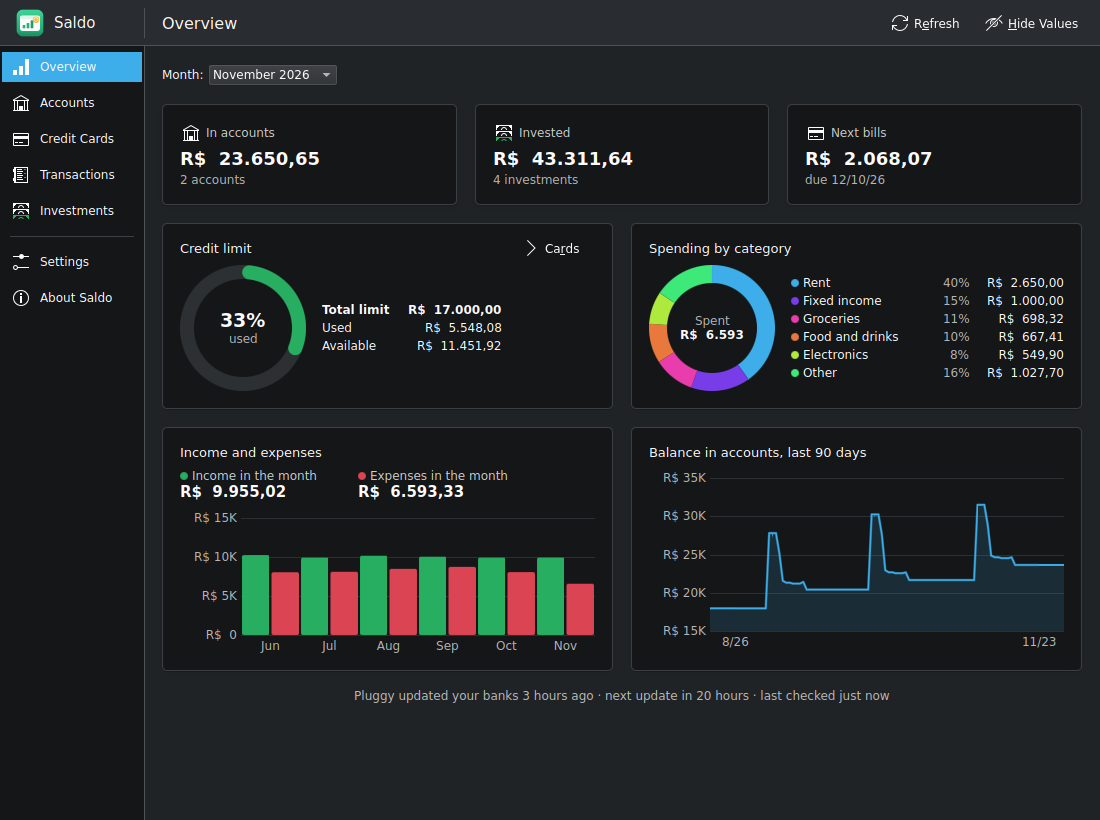
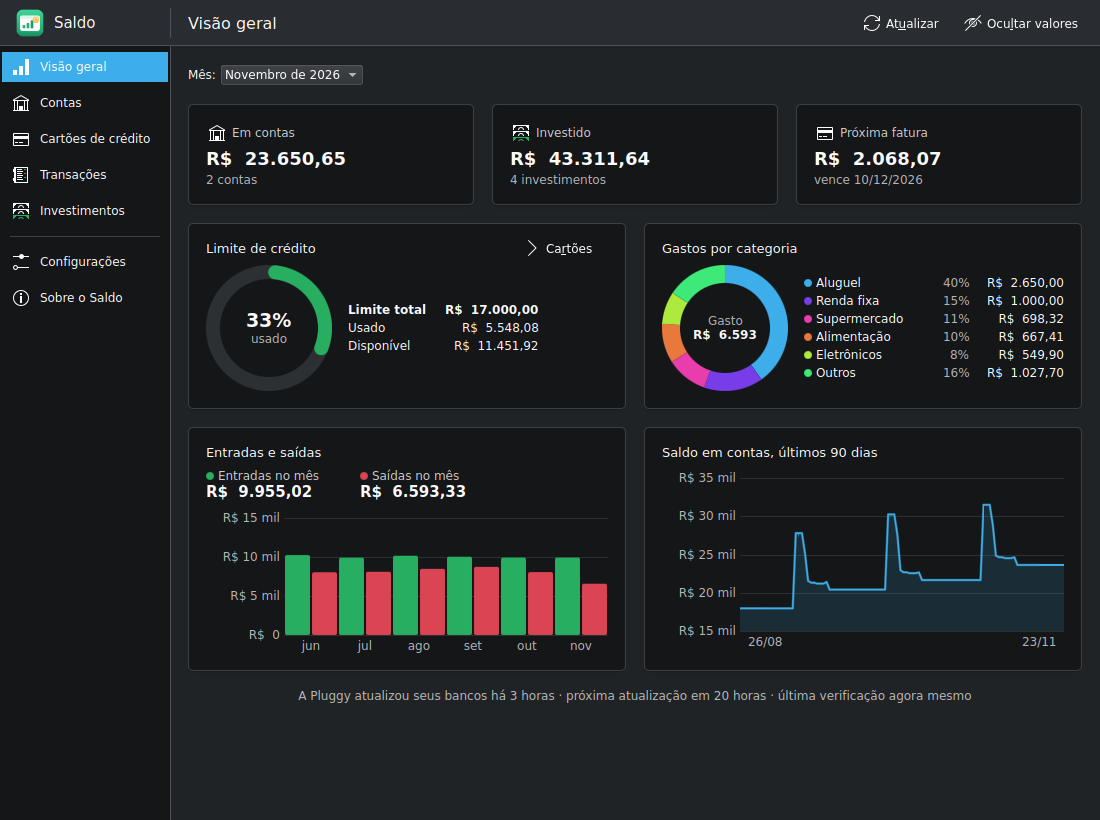
docs: write the README in Brazilian Portuguese
Saldo only works with Brazilian banks (Open Finance Brasil through Meu
Pluggy), so its users read Portuguese: the README and its screenshots are now
in pt-BR. Code, comments and CLAUDE.md stay English.

diff --git a/src/core/pluggyclient.h b/src/core/pluggyclient.h
@@ -14,7 +14,8 @@
 #include <functional>
 
 // Asynchronous client for the Pluggy API (https://api.pluggy.ai), limited to
-// what the Meu Pluggy personal-use flow allows.
+// what the Meu Pluggy personal-use flow allows. Pluggy aggregates Brazilian
+// banks through Open Finance Brasil; Meu Pluggy is its free personal-use tier.
 //
 // - POST /auth exchanges Client ID + Secret for an API key valid for 2 hours;
 //   the key is kept in memory and renewed transparently (also on HTTP 401).

diff --git a/README.md b/README.md
@@ -1,25 +1,27 @@
 # Saldo
 
-A Kirigami app and Plasma 6 widget for your personal finances. Saldo reads your banks
-through the free **Meu Pluggy** personal-use API and shows bank balances, credit card
-limits (overall and per card), bills, investments and transactions, with charts.
+App KDE (Kirigami) e widget do Plasma 6 para as suas finanças pessoais. O Saldo lê os seus bancos
+pelo **Open Finance** do Brasil, através da API gratuita de uso pessoal do **Meu Pluggy**, e mostra
+saldos, limites de cartão (geral e por cartão), faturas, investimentos e transações, com gráficos.
 
-Built with Qt6 + QML + Kirigami (KDE Frameworks 6). No accounts, no servers: the app
-talks to Pluggy directly, keeps your credentials in the system keyring and caches the
-data locally.
+Feito com Qt6 + QML + Kirigami (KDE Frameworks 6). Sem contas nem servidores: o app conversa direto
+com a Pluggy, guarda as credenciais no chaveiro do sistema e mantém um cache local dos dados.
 
-![Overview](data/screenshots/overview.png)
+> Funciona só com bancos brasileiros: os dados vêm do Open Finance Brasil, com o Meu Pluggy como
+> intermediário.
+
+![Visão geral](data/screenshots/overview.png)
 
 |  |  |  |
 | --- | --- | --- |
-| ![Credit cards](data/screenshots/cards.png) | ![Transactions](data/screenshots/transactions.png) | ![Plasma widget](data/screenshots/widget.png) |
+| ![Cartões de crédito](data/screenshots/cards.png) | ![Transações](data/screenshots/transactions.png) | ![Widget do Plasma](data/screenshots/widget.png) |
 
-## Install
+## Instalação
 
 ### Fedora (RPM)
 
-Built on Fedora 44. Download the latest `.rpm` from the
-[Releases page](https://github.com/hernique33comiitei/saldo/releases/latest) and install it:
+Compilado no Fedora 44. Baixe o `.rpm` mais recente na
+[página de releases](https://github.com/hernique33comiitei/saldo/releases/latest) e instale:
 
 ```sh
 sudo dnf install ./saldo-*.x86_64.rpm
@@ -27,9 +29,9 @@ sudo dnf install ./saldo-*.x86_64.rpm
 
 ### Ubuntu / Debian (DEB)
 
-Built on Ubuntu 26.04 LTS (needs Qt 6.8 and KDE Frameworks 6). Download the latest `.deb` from
-the [Releases page](https://github.com/hernique33comiitei/saldo/releases/latest) and install it
-(apt pulls in the dependencies):
+Compilado no Ubuntu 26.04 LTS (precisa de Qt 6.8 e KDE Frameworks 6). Baixe o `.deb` mais recente
+na [página de releases](https://github.com/hernique33comiitei/saldo/releases/latest) e instale (o
+apt baixa as dependências):
 
 ```sh
 sudo apt install ./saldo_*_amd64.deb
@@ -37,32 +39,33 @@ sudo apt install ./saldo_*_amd64.deb
 
 ### Android (APK)
 
-Download `saldo-<version>-arm64-v8a.apk` from the [Releases page](https://github.com/hernique33comiitei/saldo/releases/latest)
-on your phone and open it (Android asks to allow installing apps from your browser once).
+Baixe `saldo-<versão>-arm64-v8a.apk` na
+[página de releases](https://github.com/hernique33comiitei/saldo/releases/latest) pelo celular e
+abra o arquivo (o Android pede, uma vez, para permitir instalar apps pelo navegador).
 
-### From source (Fedora)
+### A partir do código (Fedora)
 
-For development, or to build the current `main`:
+Para desenvolver, ou para usar o `main` atual:
 
 ```sh
-./install.sh                    # installs missing deps, builds, installs to ~/.local
-./install.sh --restart-plasma   # same, then reloads plasmashell so the widget appears
+./install.sh                    # instala o que faltar, compila e instala em ~/.local
+./install.sh --restart-plasma   # o mesmo e reinicia o plasmashell para o widget aparecer
 ```
 
-`install.sh` only asks for `sudo` the first time, to install missing packages. It also
-writes `~/.config/plasma-workspace/env/saldo.sh` so plasmashell finds the widget's QML
-plugin under `~/.local`. `./uninstall.sh` reverts it (`--purge` also deletes the cache,
-preferences and keyring entry).
+O `install.sh` só pede `sudo` na primeira vez, para instalar pacotes que faltam. Ele também cria
+`~/.config/plasma-workspace/env/saldo.sh`, para o plasmashell achar o plugin QML do widget em
+`~/.local`. O `./uninstall.sh` desfaz tudo (`--purge` também apaga o cache, as preferências e a
+entrada no chaveiro).
 
-Try it without an account: `saldo --demo`.
+Para testar sem conta: `saldo --demo`.
 
-### From source (other distributions)
+### A partir do código (outras distribuições)
 
-Install the build dependencies, then build and install with CMake:
+Instale as dependências de compilação e compile com o CMake:
 
 - Debian/Ubuntu: `cmake ninja-build extra-cmake-modules gettext qt6-base-dev qt6-declarative-dev
   libqt6sql6-sqlite libkirigami-dev libkf6i18n-dev libkf6coreaddons-dev`
-- Fedora (what `install.sh` installs): `cmake ninja-build gcc-c++ extra-cmake-modules gettext
+- Fedora (o que o `install.sh` instala): `cmake ninja-build gcc-c++ extra-cmake-modules gettext
   qt6-qtbase-devel qt6-qtdeclarative-devel kf6-kirigami-devel kf6-ki18n-devel kf6-kcoreaddons-devel`
 
 ```sh
@@ -70,75 +73,76 @@ cmake -B build -G Ninja -DCMAKE_INSTALL_PREFIX=/usr && cmake --build build
 sudo cmake --install build
 ```
 
-At runtime it also needs the Kirigami and KQuickCharts QML modules, Qt SVG and the Qt SQLite
-driver (the packages above pull most of them in) and `secret-tool`.
+Para rodar, também são necessários os módulos QML do Kirigami e do KQuickCharts, o Qt SVG, o driver
+SQLite do Qt (os pacotes acima já trazem a maioria) e o `secret-tool`.
 
-## Connect Meu Pluggy
+## Conectar o Meu Pluggy
 
-Saldo opens a step-by-step guide on first run (*Connect Meu Pluggy* in the sidebar) that
-walks through the steps below with the exact button names of Pluggy's dashboard.
+Na primeira vez, o Saldo abre um guia passo a passo (*Conectar o Meu Pluggy*, no menu lateral) com
+os nomes exatos dos botões do painel da Pluggy.
 
-Personal use gives you a **Client ID**, a **Client Secret** and one **item ID** per
-connected bank (there is no single token):
+O uso pessoal dá um **Client ID**, um **Client Secret** e um **ID de item** por banco conectado (não
+existe um token único):
 
-1. Create an account at [meu.pluggy.ai](https://meu.pluggy.ai) and connect your banks.
-2. At [dashboard.pluggy.ai](https://dashboard.pluggy.ai) (in Portuguese), open
-   “Aplicações”: copy your application's **Client ID**, and its **Client Secret** (shown only
-   once; otherwise “Credenciais” → “Gerar novo secret”).
-3. Press ▶ “Iniciar Demo”, click “Conectar Conta”, pick **MeuPluggy** (not your bank), sign in
-   and pick **one** bank under “Selecione a conta”. Each authorization shares a single bank:
-   repeat for every bank you want (up to 5).
-4. Copy the **id** of each item under “Itens Conectados” and paste it in Saldo, together with
-   the Client ID and Secret (the guide, or *Settings*).
+1. Crie uma conta em [meu.pluggy.ai](https://meu.pluggy.ai) e conecte os seus bancos.
+2. Em [dashboard.pluggy.ai](https://dashboard.pluggy.ai), abra “Aplicações” e copie o **Client ID**
+   da sua aplicação e o **Client Secret** (aparece só uma vez; se não tiver, “Credenciais” →
+   “Gerar novo secret”).
+3. Clique em ▶ “Iniciar Demo”, depois em “Conectar Conta”, escolha **MeuPluggy** (não o seu banco),
+   entre e marque **um** banco em “Selecione a conta”. Cada autorização compartilha um único banco:
+   repita para cada banco que quiser (até 5).
+4. Copie o **id** de cada item em “Itens Conectados” e cole no Saldo, junto com o Client ID e o
+   Secret (pelo guia ou em *Configurações*).
 
-Guide: <https://docs.pluggy.ai/pt/docs/guides/meu-pluggy-personal-use>
+Guia oficial: <https://docs.pluggy.ai/pt/docs/guides/meu-pluggy-personal-use>
 
-- Meu Pluggy refreshes your banks **once a day** on its own and can't be forced; *Refresh*
-  re-reads what Pluggy already has.
-- Authorizations last one year (Saldo warns 30 days before). Renewing may change the item ID.
+- O Meu Pluggy atualiza os seus bancos **uma vez por dia** sozinho, e isso não pode ser forçado: o
+  *Atualizar* relê o que a Pluggy já tem.
+- As autorizações duram um ano (o Saldo avisa 30 dias antes). Renovar pode mudar o ID do item.
 
-## Plasma widget
+## Widget do Plasma
 
-Right-click the panel → *Add or Manage Widgets* → **Saldo**, or *Configure System Tray →
-Entries → Saldo*. The panel shows the Saldo icon or, optionally, the money in your accounts
-(not in the system tray); the popup has Summary, Cards and Transactions tabs; middle-click
-hides the values.
-Credentials and connections are set in the app.
+Clique com o botão direito no painel → *Adicionar ou gerenciar widgets* → **Saldo**, ou *Configurar
+bandeja do sistema → Entradas → Saldo*. O painel mostra o ícone do Saldo ou, se você preferir, o
+dinheiro nas contas (fora da bandeja do sistema). O popup tem as abas Resumo, Cartões e Transações;
+o clique do meio esconde os valores. Credenciais e conexões ficam no app.
 
-## Requirements
+## Requisitos
 
-The app **never installs** anything. It needs `secret-tool` (libsecret) for the keyring and
-shows a warning when it is missing. The packages pull in everything else (Kirigami,
-KQuickCharts, Qt SVG/SQLite, libsecret).
+O app **nunca instala** nada. Ele precisa do `secret-tool` (libsecret) para o chaveiro e mostra um
+aviso quando ele falta. Os pacotes trazem todo o resto (Kirigami, KQuickCharts, Qt SVG/SQLite,
+libsecret).
 
-## How it works
+## Como funciona
 
-- **One core, two front-ends.** A C++ library (`saldocore`, QML module `org.saldo.core`)
-  holds the Pluggy client, the sync logic and an SQLite cache. The app and the widget both
-  load it in-process — there is no daemon. A lock file keeps one sync at a time and the
-  other process reloads when the cache changes.
-- **Pluggy API.** `POST /auth` turns the Client ID + Secret into an API key kept 2 hours in
-  memory. Accounts, bills, investments and categories are paged; transactions come from the
-  cursor-based `GET /v2/transactions`. Each sync re-fetches the last 7 days of every account
-  so pending transactions that changed or vanished are reconciled.
-- **Totals that add up.** Card amounts are normalized so negative always means money going
-  out; transfers between your own accounts and card bill payments are left out of income and
-  expenses; cards sharing one limit are counted once (and any card can be excluded).
-- **Your data.** Client ID/Secret in the system keyring (Secret Service/KWallet), never in
-  files. Cache in `~/.local/share/saldo/` (directory 0700, database 0600), preferences in
-  `~/.config/saldorc`.
-  Network traffic goes only to `https://api.pluggy.ai`.
+- **Um núcleo, duas interfaces.** Uma biblioteca C++ (`saldocore`, módulo QML `org.saldo.core`)
+  reúne o cliente da Pluggy, a sincronização e um cache SQLite. O app e o widget carregam essa
+  biblioteca no próprio processo: não há daemon. Um arquivo de trava garante uma sincronização por
+  vez, e o outro processo recarrega quando o cache muda.
+- **API da Pluggy.** `POST /auth` troca o Client ID + Secret por uma chave de API, mantida 2 horas
+  na memória. Contas, faturas, investimentos e categorias vêm paginados; as transações vêm do
+  `GET /v2/transactions`, com cursor. Cada sincronização busca de novo os últimos 7 dias de cada
+  conta, para acertar transações pendentes que mudaram ou sumiram.
+- **Totais que fecham.** Os valores dos cartões são normalizados para que negativo sempre seja
+  dinheiro saindo; transferências entre as suas próprias contas e pagamentos de fatura ficam fora
+  de entradas e saídas; cartões que dividem o mesmo limite contam uma vez só (e qualquer cartão pode
+  ser excluído).
+- **Seus dados.** Client ID e Secret no chaveiro do sistema (Secret Service/KWallet), nunca em
+  arquivos. Cache em `~/.local/share/saldo/` (pasta 0700, banco 0600), preferências em
+  `~/.config/saldorc`. O tráfego de rede vai só para `https://api.pluggy.ai`.
+- **Idioma.** Português ou inglês, em *Configurações → Idioma* (por padrão, o do sistema).
 
-> Pluggy's docs are ambiguous about amount units and the sign of card purchases; real data
-> showed amounts in reais and card purchases as positive numbers, which Saldo turns into money
-> going out. *Settings → Raw Data…* shows the raw account JSON to compare with your bank app.
+> A documentação da Pluggy é ambígua sobre a unidade dos valores e o sinal das compras no cartão;
+> os dados reais vieram em reais e com as compras do cartão positivas, que o Saldo converte em
+> dinheiro saindo. *Configurações → Dados brutos…* mostra o JSON de cada conta para comparar com o
+> app do banco.
 
 ## Android
 
-The app (not the widget) runs on Android, storing the credentials in the Android Keystore.
-APKs are built with KDE Craft in KDE's Android container: `tools/build-apk.sh --docker` builds
-one locally and `tools/sign-apk.sh` signs it. See `CLAUDE.md` for the signing setup.
+O app (não o widget) roda no Android, com as credenciais no Android Keystore. Os APKs são
+compilados com o KDE Craft no contêiner Android do KDE: `tools/build-apk.sh --docker` gera um
+localmente e `tools/sign-apk.sh` assina. A configuração da assinatura está no `CLAUDE.md`.
 
-## License
+## Licença
 
-MIT — see [LICENSE](LICENSE). Saldo is an independent project, not affiliated with Pluggy.
+MIT: veja [LICENSE](LICENSE). O Saldo é um projeto independente, sem vínculo com a Pluggy.

diff --git a/CLAUDE.md b/CLAUDE.md
@@ -1,8 +1,9 @@
 # Saldo — project guide
 
 Kirigami app (QML + C++20/Qt6, CMake+ECM) and Plasma 6 widget that show personal finances from
-the **Meu Pluggy personal-use API**: bank balances, credit card limits, bills, investments and
-transactions. Desktop (KDE Plasma) first; the app (not the widget) also targets Android.
+**Open Finance Brasil** through the **Meu Pluggy personal-use API**: bank balances, credit card
+limits, bills, investments and transactions. Brazilian banks only. Desktop (KDE Plasma) first; the
+app (not the widget) also targets Android.
 
 - Repo: [https://github.com/hernique33comiitei/saldo](https://github.com/hernique33comiitei/saldo) (push over SSH, personal account only)
 - App-id: `io.github.hernique33comiitei.Saldo` · binary / icon / gettext-domain: `saldo`
@@ -10,8 +11,12 @@ transactions. Desktop (KDE Plasma) first; the app (not the widget) also targets 
 
 ## Conventions (must follow)
 
-- **Code, comments and docs are English only.** The UI is localized via KI18n; Portuguese lives
-  **only** in `po/pt_BR.po` (compiled to `saldo.mo` by CMake).
+- **Code, comments, CLAUDE.md, the release skill and commit messages are English only.** The UI
+  is localized via KI18n: source strings in English, Portuguese **only** in `po/pt_BR.po`
+  (compiled to `saldo.mo` by CMake). The exception is what faces users on GitHub: `README.md`,
+  the repository description and the README screenshots are in **Brazilian Portuguese**, because
+  the app only works with Brazilian banks (Open Finance Brasil), so that is its audience.
+  Changelogs (spec, debian, metainfo, release notes) stay English.
   - App QML (`src/app/`) uses `i18n()`. QML that also runs inside plasmashell (`src/core/qml/`,
     `plasmoid/`) uses `i18nd("saldo", …)`, because plasmashell has another default domain.
   - C++ in `src/core/` builds with `TRANSLATION_DOMAIN="saldo"` for the same reason.
@@ -160,9 +165,10 @@ i18n: translate the new sync error messages
 - Qt logs go to journald when stderr is not a terminal; set `QT_FORCE_STDERR_LOGGING=1`.
 - Screenshots: `SALDO_SCREENSHOT=out.png SALDO_SCREENSHOT_SIZE=1100x820 QT_QUICK_BACKEND=rhi QT_QPA_PLATFORM=offscreen build/bin/saldo --demo --page cards`.
   Without `QT_QUICK_BACKEND=rhi` the offscreen software renderer draws no KQuickCharts charts.
-  AppStream/README screenshots live in `data/screenshots/`: English (`LANGUAGE=en
-  LC_ALL=en_US.UTF-8`), the dark Breeze colors (a scratch `XDG_CONFIG_HOME` holding only a copy
-  of `kdeglobals` + `plasmarc`) and a fresh demo cache. The widget shot is `FullRepresentation.qml`
+  AppStream/README screenshots live in `data/screenshots/`: Brazilian Portuguese (`LANGUAGE=pt_BR
+  LC_ALL=pt_BR.UTF-8`, run from a `cmake --install` prefix listed in `XDG_DATA_DIRS` so `saldo.mo`
+  is found), the dark Breeze colors (a scratch `XDG_CONFIG_HOME` holding only a copy of
+  `kdeglobals` + `plasmarc`) and a fresh demo cache. The widget shot is `FullRepresentation.qml`
   loaded in a plain `Window` whose id is `root` (with `expanded`, `showInvestments`,
   `needsAttention`), grabbed with `QQuickWindow::grabWindow()`.
 - Widget without touching the session: `cmake --install` into a temp prefix, then run
